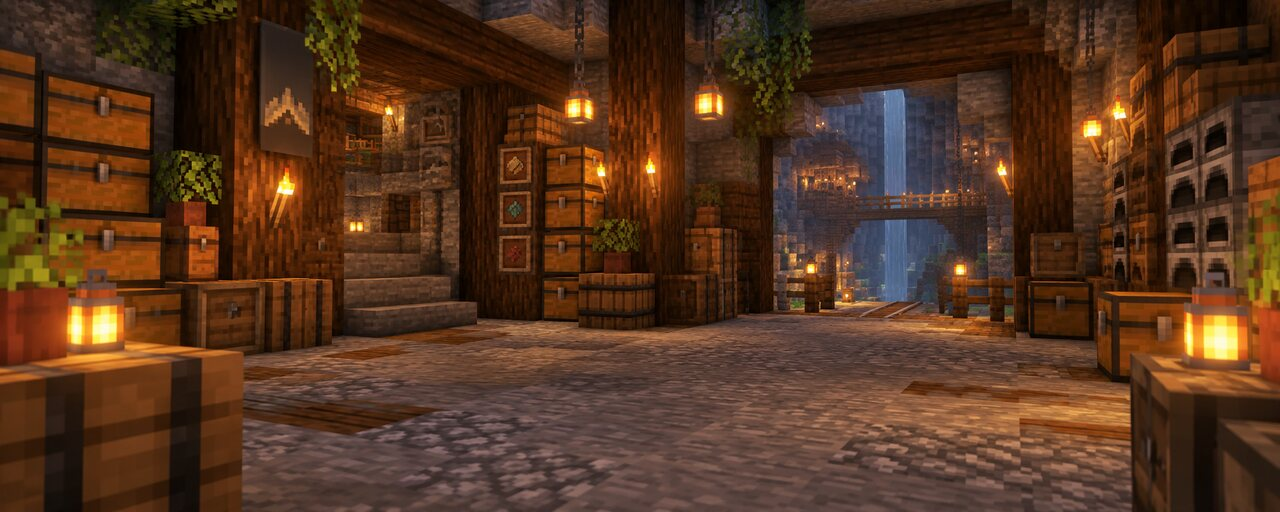
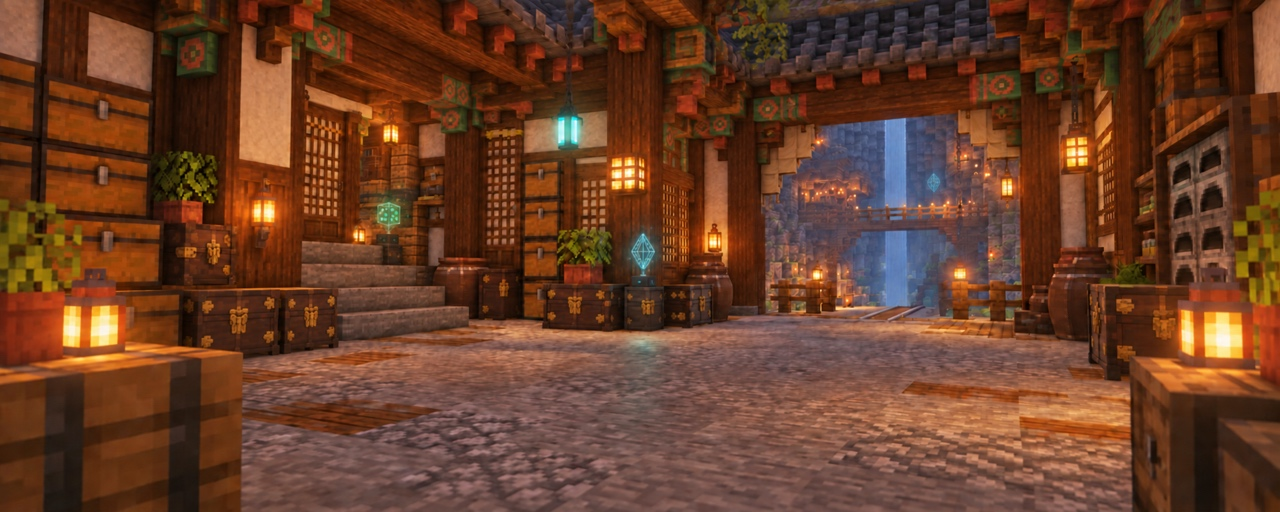
Add Korean cyber mine inventory scene

diff --git a/README.md b/README.md
@@ -51,7 +51,7 @@
 
 </details>
 
-<img src="assets/scenes/quest-break.jpg" width="100%" alt="상자와 횃불이 놓인 마인크래프트풍 지하 창고" />
+<img src="assets/scenes/quest-break.jpg" width="100%" alt="전통 한옥 구조와 조선시대 함, 광물 홀로그램이 어우러진 마인크래프트 지하 광산" />
 
 <a name="community-mine"></a>
 

diff --git a/README.source.md b/README.source.md
@@ -50,7 +50,7 @@
 
 </details>
 
-<img src="assets/scenes/quest-break.jpg" width="100%" alt="상자와 횃불이 놓인 마인크래프트풍 지하 창고" />
+<img src="assets/scenes/quest-break.jpg" width="100%" alt="전통 한옥 구조와 조선시대 함, 광물 홀로그램이 어우러진 마인크래프트 지하 광산" />
 
 <a name="community-mine"></a>
 
